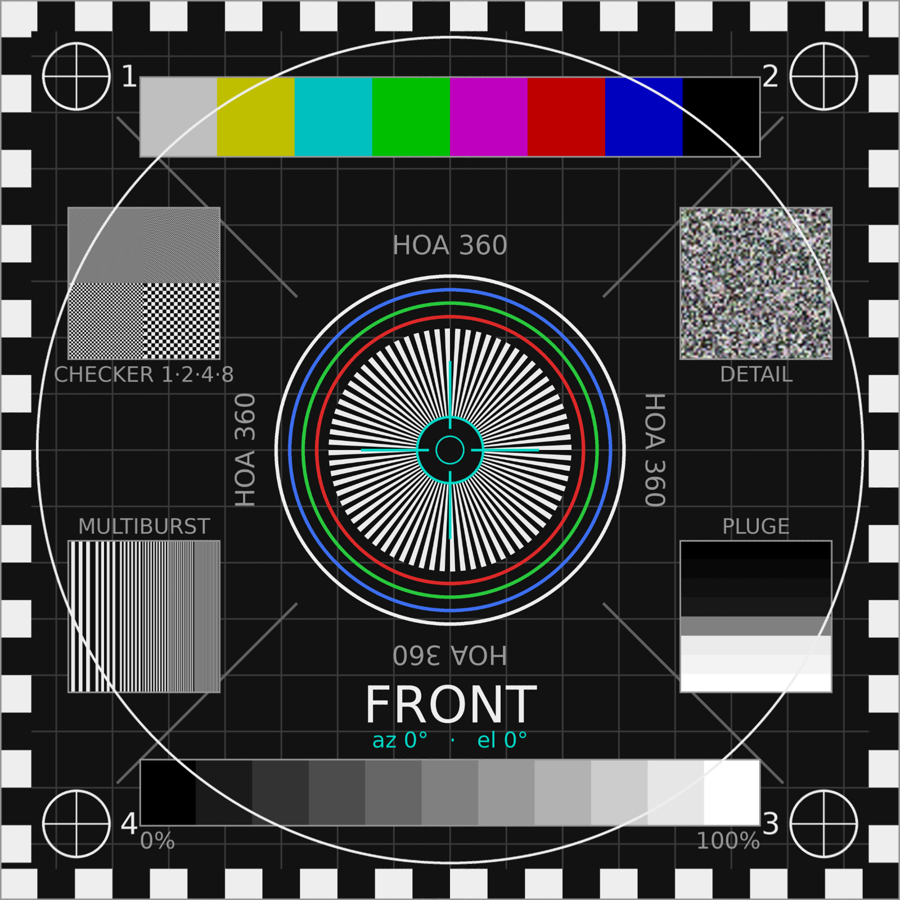
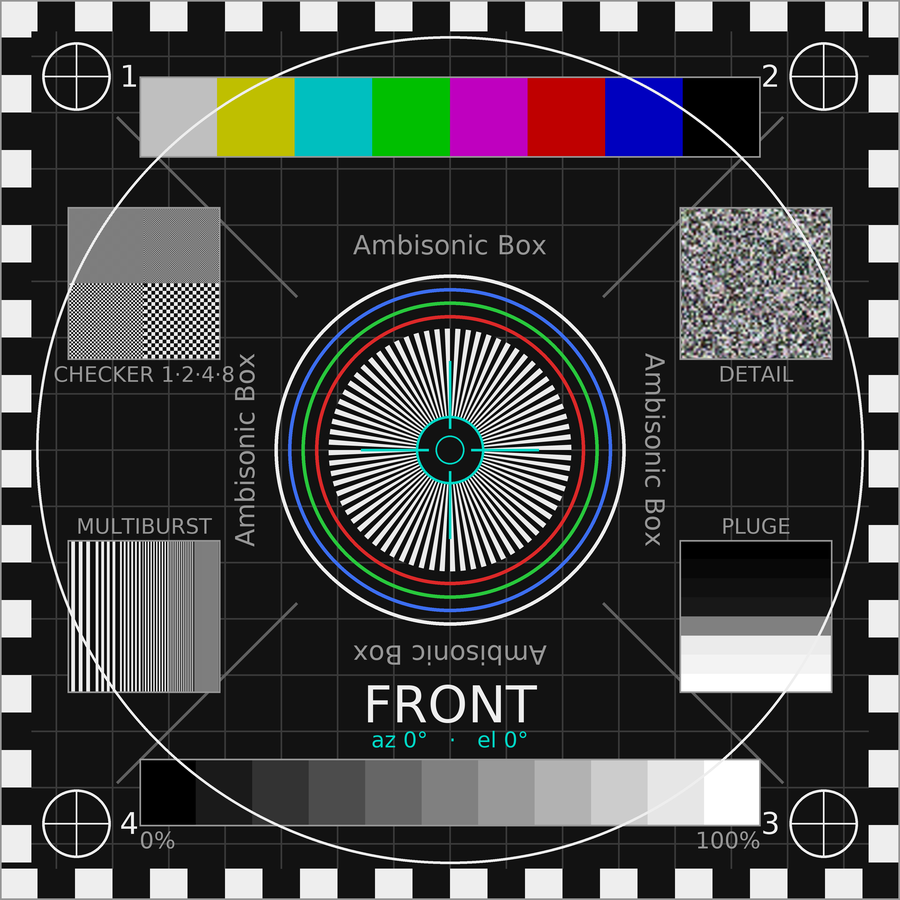
Regenerate the test card and its four figures as Ambisonic Box
The card bakes its wordmark into the pixels, so the rename could not reach it
without regenerating. Apt, as it turns out: the card IS a cube - six flat test
screens arranged as the walls of a box around the viewer - so the name now
describes the geometry.

Four figures derive from it and all showed the old name: the equirect overview,
both 90-degree viewer faces, and the sphere-tessellation comparison. The viewer
faces came from a gitignored scratch path originally; they are reproduced here
from --faces-out, which is exact because each face spans exactly 90 degrees by
construction. Verified against the committed originals: framing pixel-identical,
only the wordmark differs. The tessellation figure used its documented
parameters (--az 0 --el -90 --fov 68 --size 520).

Still to do: directions-energy-frame.png, which is a frame of the clip itself.

diff --git a/scripts/make-360-testcard.py b/scripts/make-360-testcard.py
@@ -393,7 +393,7 @@ def render_card_face(name, size, ss=2):
     wf = font(30 * k)
     for cxx, cyy, ang in ((0.5, 0.272, 0), (0.5, 0.728, 180),
                           (0.272, 0.5, 90), (0.728, 0.5, 270)):
-        _rot_text(img, P(cxx), P(cyy), "HOA 360", wf, DIM, ang)
+        _rot_text(img, P(cxx), P(cyy), "Ambisonic Box", wf, DIM, ang)
 
     # -- the name of the wall you are looking at, and its bearing ------------
     # The bearing sits directly under the name, as one identity block. Floated
